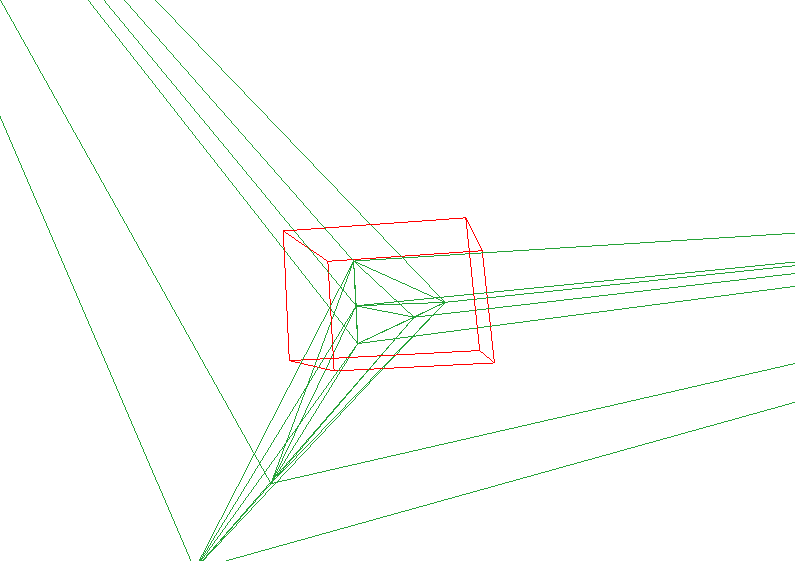
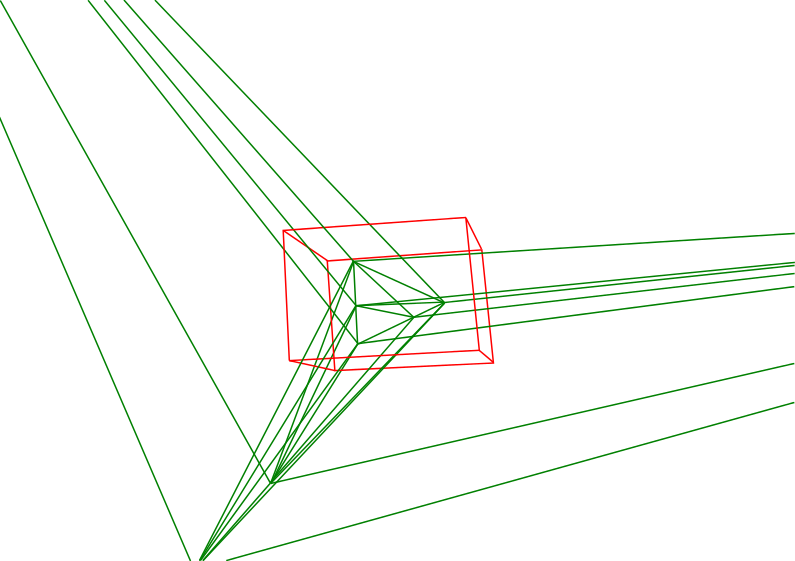
Final version of document

diff --git a/src/solidobject.cpp b/src/solidobject.cpp
@@ -2,6 +2,7 @@
 
 SolidObject::SolidObject()
 {
+    this->colour[0] = this->colour[1] = 0.0;
 }
 
 SolidObject::~SolidObject() {
@@ -765,6 +766,13 @@ QList<SolidObject *> * SolidObject::split()
 
         object = new SolidObject();
         object->loadModel(cell);
+        if (this->colour[0] > 0.0) {
+            object->colour[0] = 0.0;
+            object->colour[1] = 255.0;
+        } else {
+            object->colour[0] = 255.0;
+            object->colour[1] = 0.0;
+        }
 
         objects->push_back(object);
     }

diff --git a/src/viewwidget.cpp b/src/viewwidget.cpp
@@ -118,7 +118,7 @@ void ViewWidget::drawModel()
                 if (i == this->currentObject) {
                     glColor3f(0, 0, (float)(j + 5) / (float)(object->faces.size() + 10));
                 } else {
-                    glColor3f((float)(j + 5) / (float)(object->faces.size() + 10),0,0);
+                    glColor3f((float)(j + 5) / (float)(object->faces.size() + 10), object->colour[0], object->colour[1]);
                 }
             } else {
                 glBegin(GL_LINE_LOOP);

diff --git a/tex/division.tex b/tex/division.tex
@@ -569,7 +569,7 @@ W~niniejszym rozdziale omówimy praktyczną implementację \emph{Triangulacji De
 
 \begin{figure}[ht!]
 \centering
-\includegraphics[width=140mm]{images/app4.png}
+\includegraphics[width=140mm]{images/app4_1.png}
 \caption{Przykład trzypoziomowego podziału obiektu}
 \label{appdivisionlevels}
 \end{figure}

diff --git a/src/solidobject.h b/src/solidobject.h
@@ -31,6 +31,7 @@ public:
     QList< QList<int> * > BBfaces;
     float sidesSizes[3];
     float center[3];
+    float colour[2];
 
     QList<float *> randomPoints;
     QList<float *> superTetraVertices;
